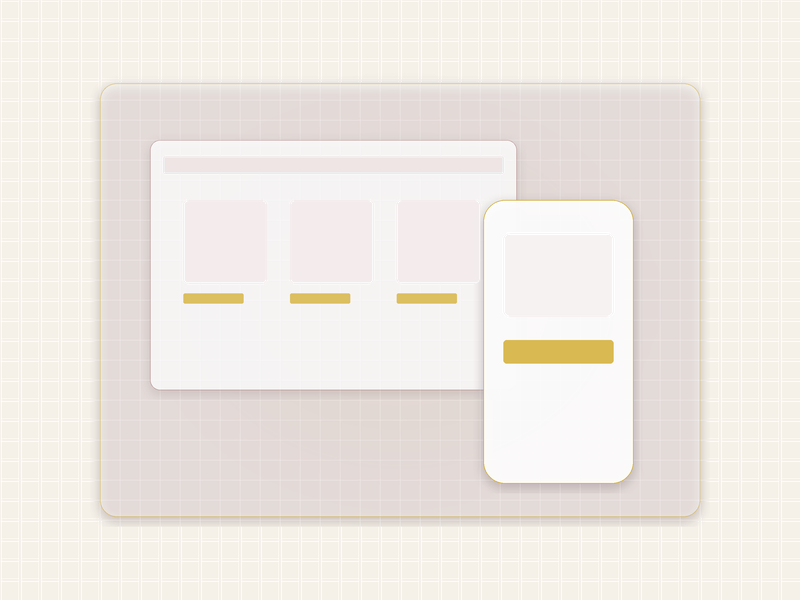
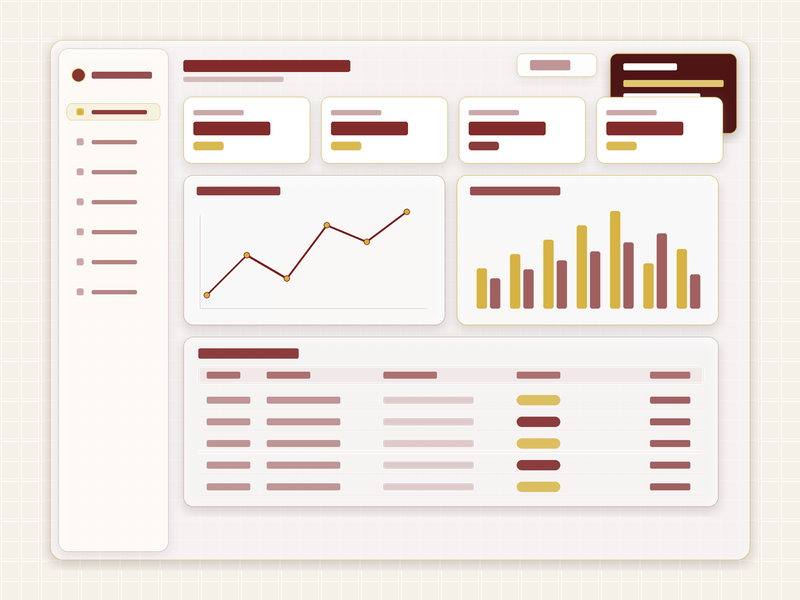
design: replace featured project mockup with premium ERP dashboard and integrate Next.js Image component

diff --git a/src/components/spark/sections/PortfolioSection.tsx b/src/components/spark/sections/PortfolioSection.tsx
@@ -6,6 +6,7 @@ import { ArrowUpRight } from "lucide-react";
 import { SectionHeading } from "../ui/SectionHeading";
 import { StaggerGroup, StaggerItem } from "../ui/Stagger";
 import { getPortfolio } from "@/lib/api";
+import Image from "next/image";
 
 type Project = {
   client: string;
@@ -153,16 +154,18 @@ function ProjectCard({ project, index }: { project: Project; index: number }) {
           </div>
         )}
 
-        <img
+        <Image
           src={imgSrc}
           alt={`${project.client} — ${project.category}`}
+          fill
           loading="lazy"
           onLoad={() => setImgLoaded(true)}
           onError={() => {
             setImgSrc("/assets/portfolio/northpeak.png");
             setImgLoaded(true);
           }}
-          className={`absolute inset-0 h-full w-full object-cover transition-all duration-700 ease-out group-hover:scale-110 ${
+          sizes="(max-width: 768px) 100vw, (max-width: 1200px) 50vw, 33vw"
+          className={`object-cover transition-all duration-700 ease-out group-hover:scale-110 ${
             imgLoaded ? "opacity-100 scale-100" : "opacity-0 scale-95"
           }`}
         />